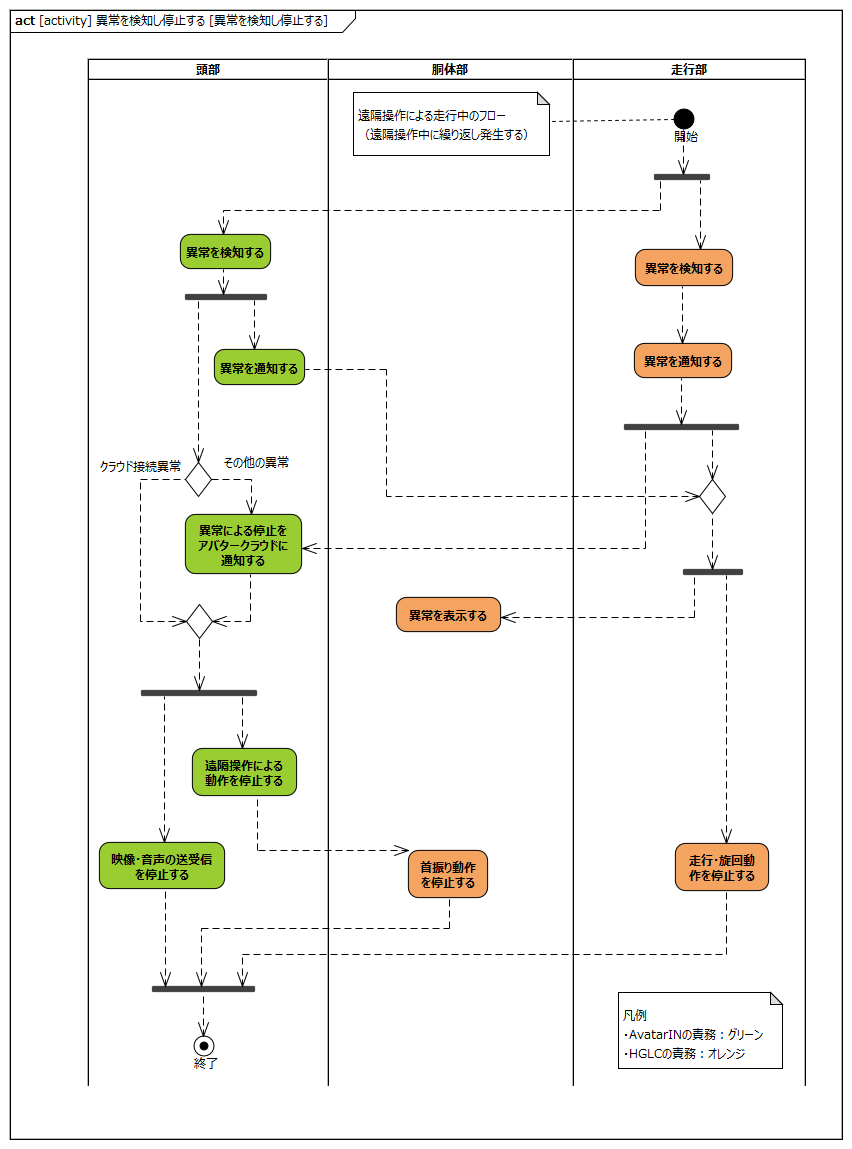
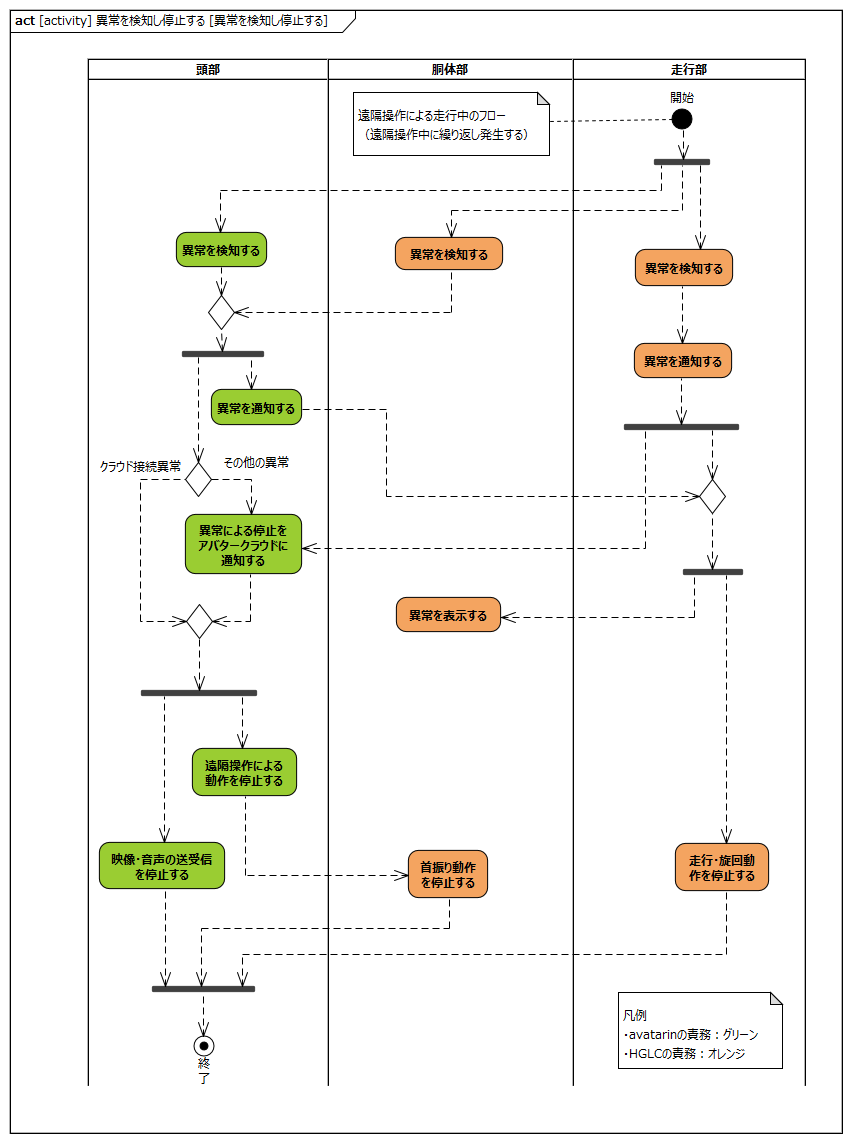
update SysRS-11a/b

diff --git a/requirements/error_stop.md b/requirements/error_stop.md
@@ -54,7 +54,7 @@ avatarin側の責務のため、対象外とする。
 
 <div style="page-break-before:always"></div>
 
-## 頭部は頭部内の異常を走行部に通知する
+## 頭部は頭部および胴体内の異常を走行部に通知する
 
 avatarin側の責務のため、対象外とする。
 
@@ -78,10 +78,23 @@ avatarin側の責務のため、対象外とする。
 
 <div style="page-break-before:always"></div>
 
+## 胴体部は胴体内の異常を検知し、頭部に通知する
+
+![](.images/activity/error_stop/body-act01.png)
+
+**L2要求抽出**
+
+|要求|備考|
+|:---|:---|
+|垂直モータは異常を検知し、頭部に通知する||
+|水平モータは異常を検知し、頭部に通知する||
+
+<div style="page-break-before:always"></div>
+
 
 ## 胴体部は本体の異常を本体に表示する
 
-![](.images/activity/error_stop/body-act01.png)
+![](.images/activity/error_stop/body-act02.png)
 
 **L2要求抽出**
 
@@ -93,7 +106,7 @@ avatarin側の責務のため、対象外とする。
 
 ## 胴体部は頭部からの指示を受けて首振り動作を停止する
 
-![](.images/activity/error_stop/body-act02.png)
+![](.images/activity/error_stop/body-act03.png)
 
 **L2要求抽出**
 

diff --git a/requirements/requirement.md b/requirements/requirement.md
@@ -1748,10 +1748,11 @@ YES動作コマンドは首垂直動作に依存し、NO動作コマンドは首
 |要求|備考|
 |:---|:---|
 |頭部は頭部内の異常を検知する||
-|頭部は頭部内の異常を走行部に通知する|本体（本体（LEDなど）エラー表示のため|
+|頭部は頭部および胴体内の異常を走行部に通知する|本体（本体（LEDなど）エラー表示のため|
 |頭部はクラウド接続異常以外の異常をアバタークラウドに通知する|走行部の異常を含む|
 |頭部は本体の異常により遠隔操作による動作を停止する||
 |頭部は本体の異常により映像・音声の送受信を停止する||
+|胴体部は胴体内の異常を検知し、頭部に通知する||
 |胴体部は本体の異常を本体に表示する|LEDランプ等|
 |胴体部は頭部からの指示を受けて首振り動作を停止する||
 |走行部は走行部内の異常を検知する||
